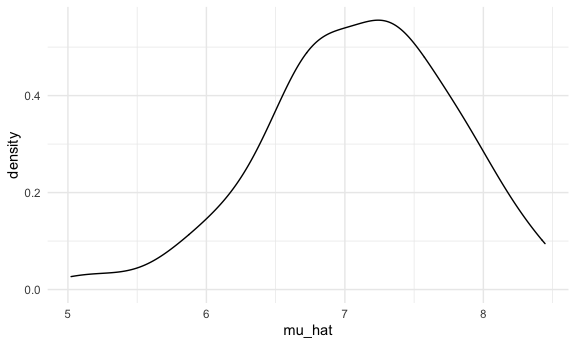
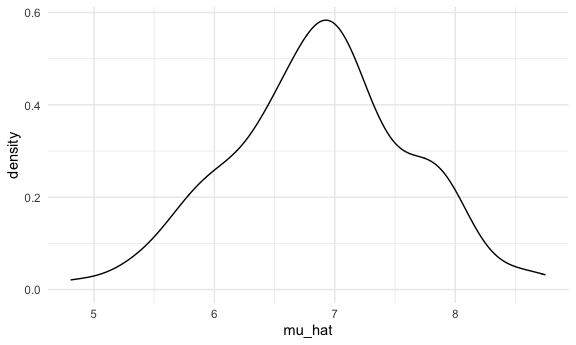
two inputs in map function

diff --git a/simulations.md b/simulations.md
@@ -28,7 +28,7 @@ sim_mean_sd(n_obs = 30)
     ## # A tibble: 1 × 2
     ##   mu_hat sigma_hat
     ##    <dbl>     <dbl>
-    ## 1   8.19      4.29
+    ## 1   6.43      2.90
 
 How can we use this now
 
@@ -67,3 +67,78 @@ sim_results_df %>%
 <img src="simulations_files/figure-gfm/unnamed-chunk-6-1.png" width="90%" />
 
 !!!!!!!!!!!!!
+
+## What about changing the sample size?
+
+I need a input list with lots of sample sizes
+
+``` r
+sim_results_df = 
+  expand_grid(
+    sample_size = c(30,60,120,240),
+    iteration = 1:1000) %>%
+  mutate(
+    estimate_df = map(sample_size, sim_mean_sd)
+  ) %>%
+  unnest(estimate_df) 
+```
+
+``` r
+sim_results_df %>%
+  mutate(
+    sample_size = str_c("N = ", sample_size),
+    sample_size = fct_inorder(sample_size)
+  ) %>%
+  ggplot(aes(x= sample_size,y = mu_hat))+ 
+  geom_violin()
+```
+
+<img src="simulations_files/figure-gfm/unnamed-chunk-8-1.png" width="90%" />
+
+``` r
+sim_results_df %>%
+  mutate(
+    sample_size = str_c("N = ", sample_size),
+    sample_size = fct_inorder(sample_size)
+  ) %>%
+  group_by(sample_size) %>%
+  summarize(
+    emp_st_err = sd(mu_hat)
+  )
+```
+
+    ## # A tibble: 4 × 2
+    ##   sample_size emp_st_err
+    ##   <fct>            <dbl>
+    ## 1 N = 30           0.740
+    ## 2 N = 60           0.486
+    ## 3 N = 120          0.362
+    ## 4 N = 240          0.250
+
+## let’s see two inputs…
+
+``` r
+sim_results_df = 
+  expand_grid(
+    sample_size = c(30,60,120,240),
+    true_sigma = c(6,3),
+    iteration = 1:1000) %>%
+  mutate(
+    estimate_df =
+      map2(.x = sample_size, .y = true_sigma, ~sim_mean_sd(n_obs = .x, sigma = .y))
+  ) %>%
+  unnest(estimate_df) 
+```
+
+``` r
+sim_results_df %>%
+  mutate(
+    sample_size = str_c("N = ", sample_size),
+    sample_size = fct_inorder(sample_size)
+  ) %>%
+  ggplot(aes(x= sample_size,y = mu_hat))+ 
+  geom_violin()+
+  facet_grid(.~true_sigma)
+```
+
+<img src="simulations_files/figure-gfm/unnamed-chunk-11-1.png" width="90%" />
